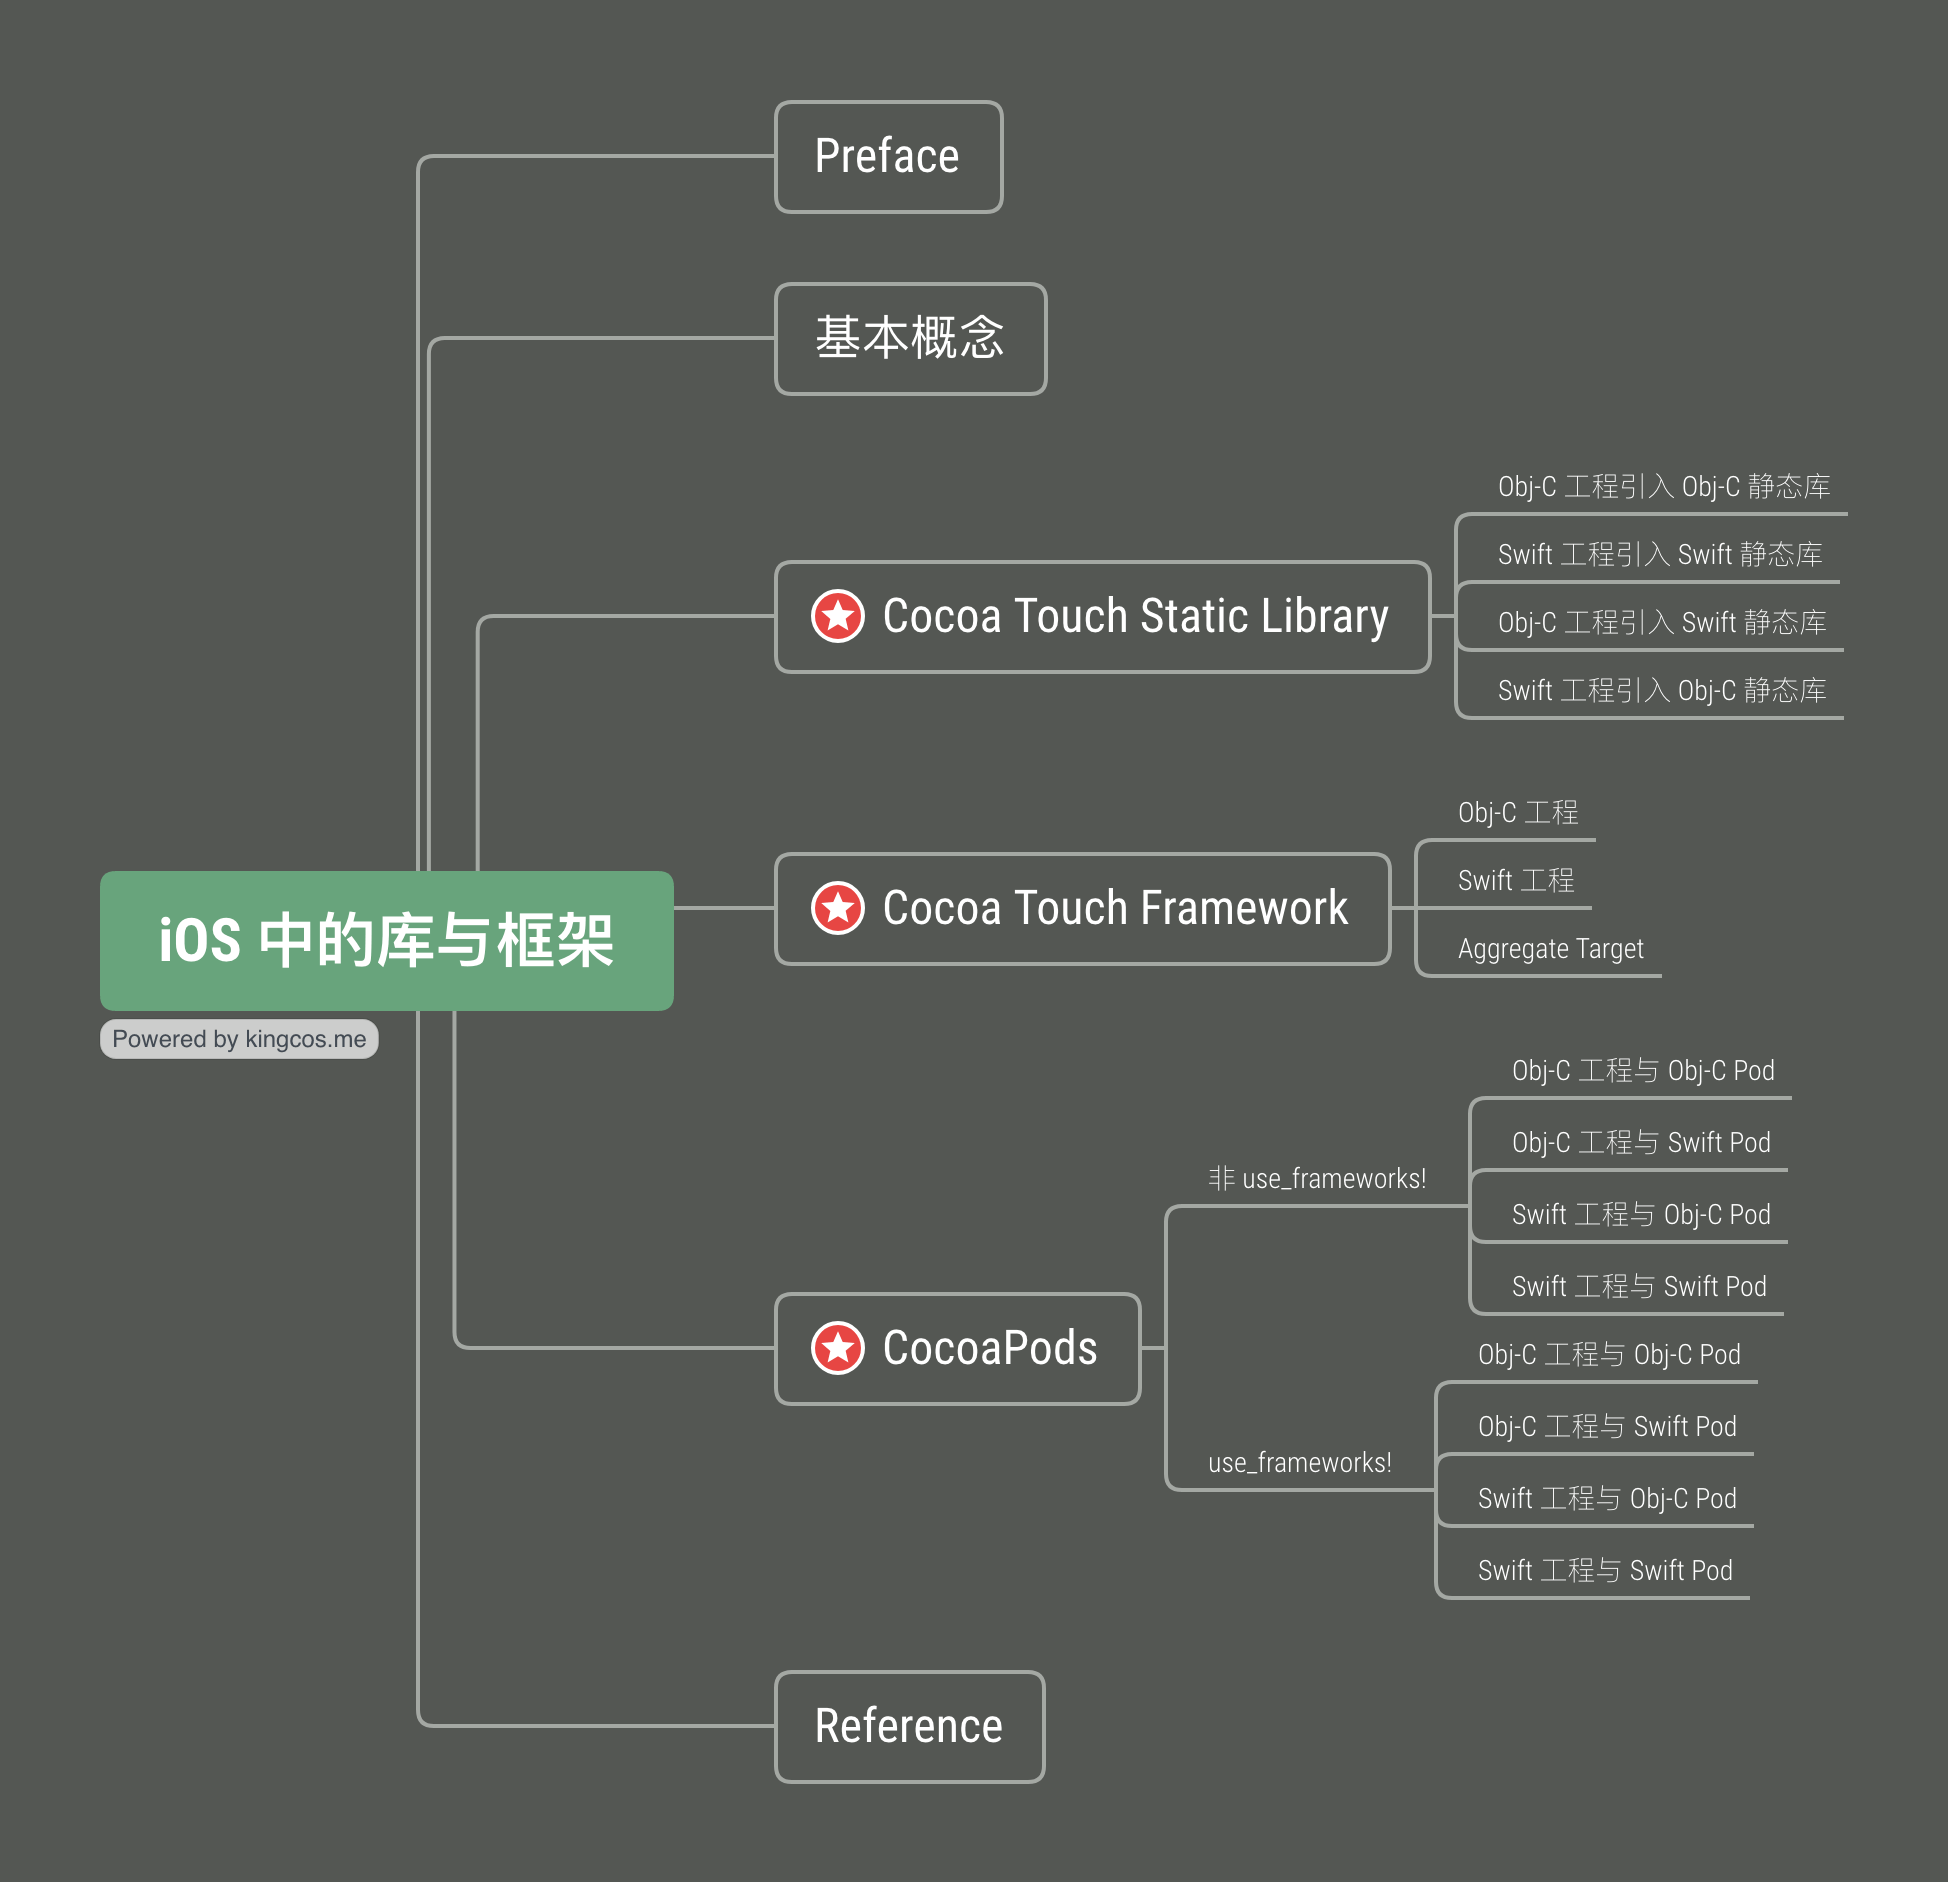
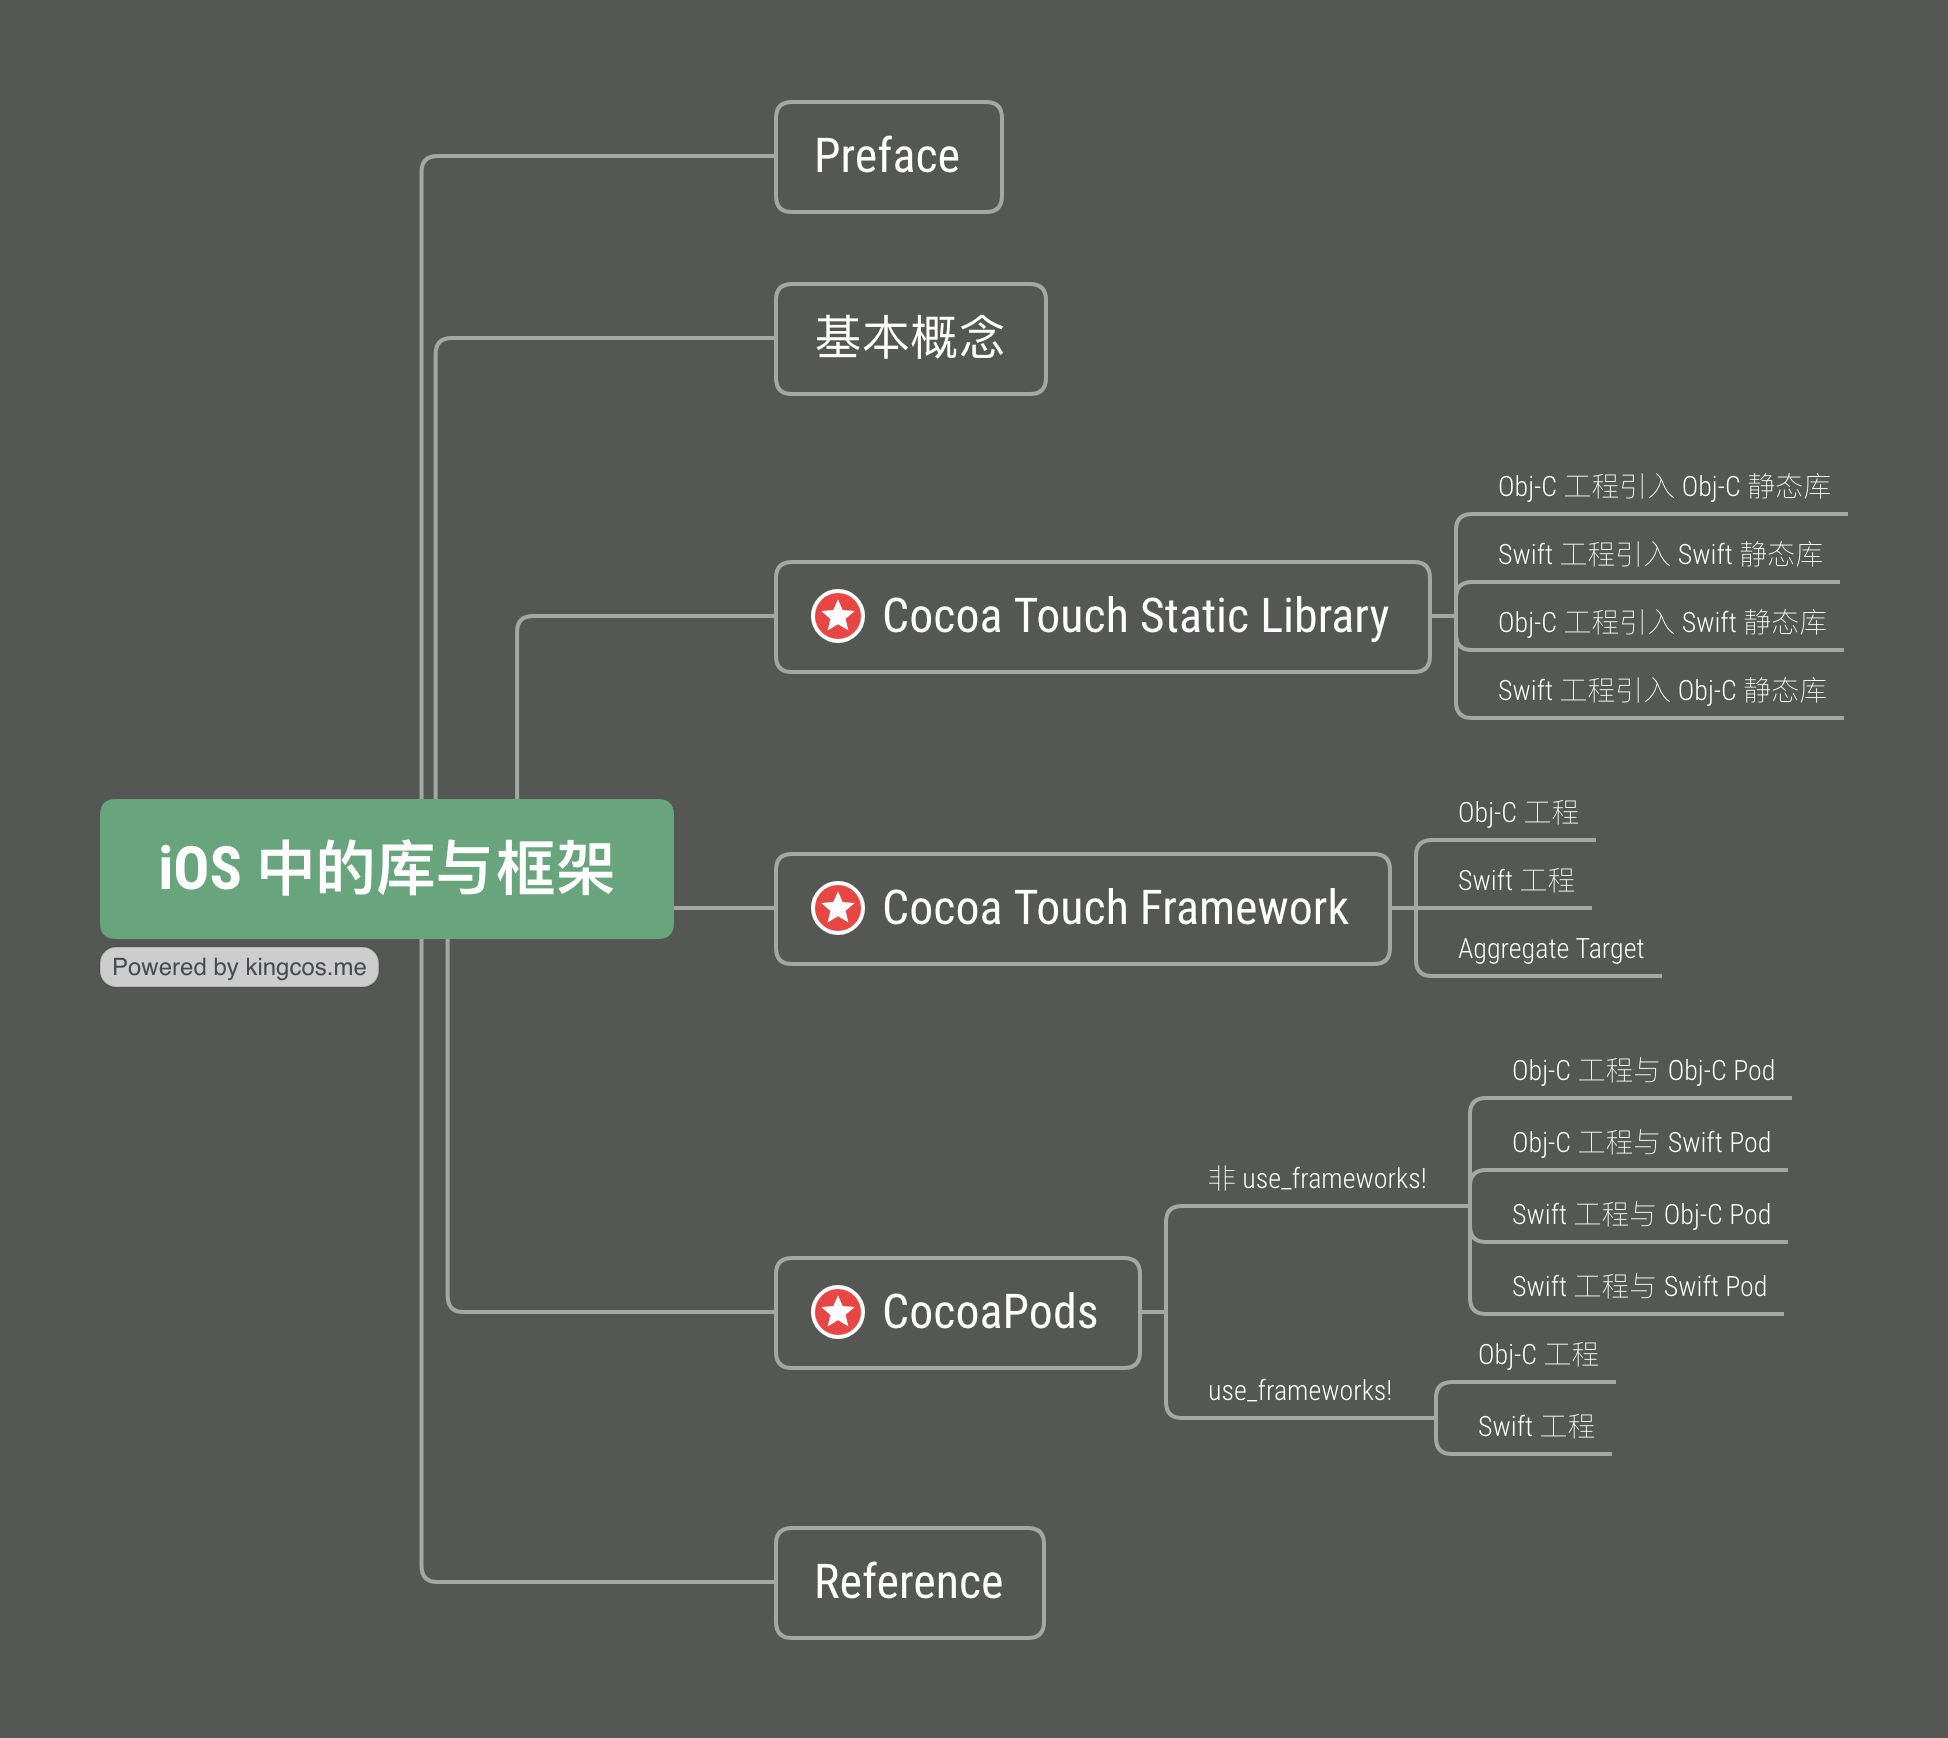
Build

diff --git a/posts/2019/libraries_in_ios/index.html b/posts/2019/libraries_in_ios/index.html
@@ -721,12 +721,12 @@ trap 'on_error $LINENO' ERR
 if [ -z ${UNLOCALIZED_RESOURCES_FOLDER_PATH+x} ]; then
   # If UNLOCALIZED_RESOURCES_FOLDER_PATH is not set, then there's nowhere for us to copy
   # resources to, so exit 0 (signalling the script phase was successful).
-  # 若 UNLOCALIZED_RESOURCES_FOLDER_PATH 未设置，则无法拷贝资源，退出
+  # 若 UNLOCALIZED_RESOURCES_FOLDER_PATH 未设置，则无需拷贝资源并退出
   exit 0
 fi
 
 # TARGET_BUILD_DIR（目标构建目录）：/Users/kingcos/Library/Developer/Xcode/DerivedData/oc-demo-project-pod-fvrppqpxzudpvicewkjnbszgmrll/Build/Products/Debug-iphonesimulator
-# 递归创建 .app 文件夹
+# 递归创建 .app 路径
 mkdir -p &quot;${TARGET_BUILD_DIR}/${UNLOCALIZED_RESOURCES_FOLDER_PATH}&quot;
 
 # RESOURCES_TO_COPY（欲拷贝资源记录临时文件）：oc-demo-project-pod/Pods/resources-to-copy-oc-demo-project-pod.txt
@@ -776,9 +776,9 @@ install_resource()
   fi
 
   # RESOURCE_PATH（资源路径）
-  # /Users/kingcos/Documents/gh/libraries_in_ios-demo/oc-demo-project-pod/Pods/../../oc-pod/oc-pod/Assets/info.json
+  # PATH/TO/libraries_in_ios-demo/oc-demo-project-pod/Pods/../../oc-pod/oc-pod/Assets/info.json
   # /Users/kingcos/Library/Developer/Xcode/DerivedData/oc-demo-project-pod-aaokquikwvguhaglfagfimosuecy/Build/Products/Debug-iphonesimulator/oc-pod/oc-pod.bundle
-  # /Users/kingcos/Documents/gh/libraries_in_ios-demo/oc-demo-project-pod/Pods/../../swift-pod/swift-pod/Assets/Localizable.strings
+  # PATH/TO/libraries_in_ios-demo/oc-demo-project-pod/Pods/../../swift-pod/swift-pod/Assets/Localizable.strings
   # 若资源路径不存在则提示并退出
   if [[ ! -e &quot;$RESOURCE_PATH&quot; ]] ; then
     cat &lt;&lt; EOM
@@ -827,6 +827,7 @@ EOM
       ;;
   esac
 }
+
 # CONFIGURATION：运行的 scheme 配置模式，Debug 或 Release
 # 目前 Debug 和 Release 模式处理一致
 if [[ &quot;$CONFIGURATION&quot; == &quot;Debug&quot; ]]; then
@@ -861,9 +862,11 @@ fi
 # 删除存储资源路径的临时文件
 rm -f &quot;$RESOURCES_TO_COPY&quot;
 
+# WRAPPER_EXTENSION（扩展）：app
 if [[ -n &quot;${WRAPPER_EXTENSION}&quot; ]] &amp;&amp; [ &quot;`xcrun --find actool`&quot; ] &amp;&amp; [ -n &quot;${XCASSET_FILES:-}&quot; ]
 then
   # Find all other xcassets (this unfortunately includes those of path pods and other targets).
+  # 查找其他所有 xcassets
   OTHER_XCASSETS=$(find &quot;$PWD&quot; -iname &quot;*.xcassets&quot; -type d)
   while read line; do
     if [[ $line != &quot;${PODS_ROOT}*&quot; ]]; then
@@ -1025,18 +1028,18 @@ class ViewController: UIViewController {
 
 <h3 id="use-frameworks">use_frameworks!</h3>
 
-<h4 id="obj-c-工程与-obj-c-pod-1">Obj-C 工程与 Obj-C Pod</h4>
+<h4 id="obj-c-工程-1">Obj-C 工程</h4>
 
 <p>将 <code>use_frameworks!</code> 开启时，Pods 工程将以框架方式依赖：</p>
 
 <p><img src="/img/2019/libraries_in_ios/16.png" alt="16" /></p>
 
-<p>对于资源文件，「[CP] Copy Pods Resoureces」中执行了如下脚本：</p>
+<p>在上面我们了解过 Framework，其中聚合了可执行文件以及资源等文件，因此其一般不再需要单独的脚本来处理资源，而是需要「[CP] Embed Pods Frameworks」来针对 Framework 进行操作：</p>
 
 <pre><code class="language-shell">#!/bin/sh
 set -e
 set -u
-set -o pipefail
+set -o pipefail # 一些设置
 
 # 错误处理
 function on_error {
@@ -1044,38 +1047,42 @@ function on_error {
 }
 trap 'on_error $LINENO' ERR
 
-# FRAMEWORKS_FOLDER_PATH（框架路径）：oc-demo-project.app/Frameworks
+# FRAMEWORKS_FOLDER_PATH（框架文件夹路径）：oc-demo-project-pod.app/Frameworks
 if [ -z ${FRAMEWORKS_FOLDER_PATH+x} ]; then
-  # FRAMEWORKS_FOLDER_PATH 未设置，代表无需复制框架，即退出
   # If FRAMEWORKS_FOLDER_PATH is not set, then there's nowhere for us to copy
   # frameworks to, so exit 0 (signalling the script phase was successful).
+  # FRAMEWORKS_FOLDER_PATH 未设置，则无需拷贝资源并退出
   exit 0
 fi
 
-# CONFIGURATION_BUILD_DIR（配置构建目录）：/Users/kingcos/Library/Developer/Xcode/DerivedData/oc-demo-project-fvrppqpxzudpvicewkjnbszgmrll/Build/Products/Debug-iphonesimulator
+# CONFIGURATION_BUILD_DIR（配置构建目录）：/Users/kingcos/Library/Developer/Xcode/DerivedData/oc-demo-project-pod-gmhizsqflcuavpebfzsfyychzzuj/Build/Products/Debug-iphonesimulator
+# 递归创建框架路径
 echo &quot;mkdir -p ${CONFIGURATION_BUILD_DIR}/${FRAMEWORKS_FOLDER_PATH}&quot;
 mkdir -p &quot;${CONFIGURATION_BUILD_DIR}/${FRAMEWORKS_FOLDER_PATH}&quot;
 
+# COCOAPODS_PARALLEL_CODE_SIGN（CocoaPods 并行签名）：false（默认）
 COCOAPODS_PARALLEL_CODE_SIGN=&quot;${COCOAPODS_PARALLEL_CODE_SIGN:-false}&quot;
+
 # DT_TOOLCHAIN_DIR（工具链目录）：/Applications/Xcode.app/Contents/Developer/Toolchains/XcodeDefault.xctoolchain
 # PLATFORM_NAME（目标平台名）：iphonesimulator
+# SWIFT_STDLIB_PATH（Swift 标准库路径）：/Applications/Xcode.app/Contents/Developer/Toolchains/XcodeDefault.xctoolchain/usr/lib/swift/iphonesimulator
 SWIFT_STDLIB_PATH=&quot;${DT_TOOLCHAIN_DIR}/usr/lib/swift/${PLATFORM_NAME}&quot;
 
 # Used as a return value for each invocation of `strip_invalid_archs` function.
+# 作为每次调用 strip_invalid_archs 函数的返回值
 STRIP_BINARY_RETVAL=0
 
+# 防止多个 target 同时拷贝相同的框架依赖
 # This protects against multiple targets copying the same framework dependency at the same time. The solution
 # was originally proposed here: https://lists.samba.org/archive/rsync/2008-February/020158.html
 RSYNC_PROTECT_TMP_FILES=(--filter &quot;P .*.??????&quot;)
 
 # Copies and strips a vendored framework
-# 拷贝并删除 vendored framework
-
-# 安装框架函数
+# 拷贝并删除 vendored 框架
 install_framework()
 {
-  # BUILT_PRODUCTS_DIR（构建产物目录）：/Users/kingcos/Library/Developer/Xcode/DerivedData/oc-demo-project-fvrppqpxzudpvicewkjnbszgmrll/Build/Products/Debug-iphonesimulator
-  # if [ -r FILE ]; 如果文件 FILE 可读（r：read）则真
+  # BUILT_PRODUCTS_DIR（构建产物目录）：/Users/kingcos/Library/Developer/Xcode/DerivedData/oc-demo-project-pod-gmhizsqflcuavpebfzsfyychzzuj/Build/Products/Debug-iphonesimulator
+  # if [ -r FILE ]; 如果文件 FILE 可读（r：read）则为真
   if [ -r &quot;${BUILT_PRODUCTS_DIR}/$1&quot; ]; then
     local source=&quot;${BUILT_PRODUCTS_DIR}/$1&quot;
   elif [ -r &quot;${BUILT_PRODUCTS_DIR}/$(basename &quot;$1&quot;)&quot; ]; then
@@ -1086,9 +1093,10 @@ install_framework()
 
   local destination=&quot;${TARGET_BUILD_DIR}/${FRAMEWORKS_FOLDER_PATH}&quot;
 
-  # if [ -L FILE ]; 如果文件 FILE 是链接（L：Link）文件则真
+  # if [ -L FILE ]; 如果文件 FILE 是链接（L：Link）文件则为真
   if [ -L &quot;${source}&quot; ]; then
     echo &quot;Symlinked...&quot;
+    # 读取链接的真实文件
     source=&quot;$(readlink &quot;${source}&quot;)&quot;
   fi
 
@@ -1097,6 +1105,8 @@ install_framework()
   rsync --delete -av &quot;${RSYNC_PROTECT_TMP_FILES[@]}&quot; --filter &quot;- CVS/&quot; --filter &quot;- .svn/&quot; --filter &quot;- .git/&quot; --filter &quot;- .hg/&quot; --filter &quot;- Headers&quot; --filter &quot;- PrivateHeaders&quot; --filter &quot;- Modules&quot; &quot;${source}&quot; &quot;${destination}&quot;
 
   local basename
+  # basename（基本名）：AFNetworking / oc_pod / swift_pod
+  # binary（二进制路径）
   basename=&quot;$(basename -s .framework &quot;$1&quot;)&quot;
   binary=&quot;${destination}/${basename}.framework/${basename}&quot;
 
@@ -1108,15 +1118,19 @@ install_framework()
     binary=&quot;${dirname}/$(readlink &quot;${binary}&quot;)&quot;
   fi
 
+  # /Users/kingcos/Library/Developer/Xcode/DerivedData/oc-demo-project-pod-gmhizsqflcuavpebfzsfyychzzuj/Build/Products/Debug-iphonesimulator/oc-demo-project-pod.app/Frameworks/AFNetworking.framework/AFNetworking: Mach-O 64-bit dynamically linked shared library x86_64
   # Strip invalid architectures so &quot;fat&quot; simulator / device frameworks work on device
   if [[ &quot;$(file &quot;$binary&quot;)&quot; == *&quot;dynamically linked shared library&quot;* ]]; then
+    # 若为动态链接共享库，则删除无效架构
     strip_invalid_archs &quot;$binary&quot;
   fi
 
   # Resign the code if required by the build settings to avoid unstable apps
+  # 重签名 Build Settings 里设置为必须的代码，以避免造成 app 不稳定
   code_sign_if_enabled &quot;${destination}/$(basename &quot;$1&quot;)&quot;
 
   # Embed linked Swift runtime libraries. No longer necessary as of Xcode 7.
+  # 嵌入 Swift 运行时库，Xcode 7 之后不再需要。
   if [ &quot;${XCODE_VERSION_MAJOR}&quot; -lt 7 ]; then
     local swift_runtime_libs
     swift_runtime_libs=$(xcrun otool -LX &quot;$binary&quot; | grep --color=never @rpath/libswift | sed -E s/@rpath\\/\(.+dylib\).*/\\1/g | uniq -u)
@@ -1129,6 +1143,7 @@ install_framework()
 }
 
 # Copies and strips a vendored dSYM
+# 拷贝并删除 vendored dSYM
 install_dsym() {
   local source=&quot;$1&quot;
   if [ -r &quot;$source&quot; ]; then
@@ -1157,6 +1172,7 @@ install_dsym() {
 }
 
 # Copies the bcsymbolmap files of a vendored framework
+# 复制 vendored 框架的 bcsymbolmap 文件
 install_bcsymbolmap() {
     local bcsymbolmap_path=&quot;$1&quot;
     local destination=&quot;${BUILT_PRODUCTS_DIR}&quot;
@@ -1165,6 +1181,7 @@ install_bcsymbolmap() {
 }
 
 # Signs a framework with the provided identity
+# 使用提供的证明签名框架
 code_sign_if_enabled() {
   if [ -n &quot;${EXPANDED_CODE_SIGN_IDENTITY:-}&quot; -a &quot;${CODE_SIGNING_REQUIRED:-}&quot; != &quot;NO&quot; -a &quot;${CODE_SIGNING_ALLOWED}&quot; != &quot;NO&quot; ]; then
     # Use the current code_sign_identity
@@ -1180,13 +1197,21 @@ code_sign_if_enabled() {
 }
 
 # Strip invalid architectures
+# 删除无效架构函数
 strip_invalid_archs() {
   binary=&quot;$1&quot;
   # Get architectures for current target binary
+  # 获取当前二进制架构，x86_64 模拟器
   binary_archs=&quot;$(lipo -info &quot;$binary&quot; | rev | cut -d ':' -f1 | awk '{$1=$1;print}' | rev)&quot;
+  echo &quot;-------&quot;
+  echo &quot;$binary_archs&quot;
+  echo &quot;-------&quot;
+
   # Intersect them with the architectures we are building for
+  # 与目标架构取交集
   intersected_archs=&quot;$(echo ${ARCHS[@]} ${binary_archs[@]} | tr ' ' '\n' | sort | uniq -d)&quot;
   # If there are no archs supported by this binary then warn the user
+  # 如果交集为空，即没有支持的架构，则警告用户
   if [[ -z &quot;$intersected_archs&quot; ]]; then
     echo &quot;warning: [CP] Vendored binary '$binary' contains architectures ($binary_archs) none of which match the current build architectures ($ARCHS).&quot;
     STRIP_BINARY_RETVAL=0
@@ -1196,6 +1221,7 @@ strip_invalid_archs() {
   for arch in $binary_archs; do
     if ! [[ &quot;${ARCHS}&quot; == *&quot;$arch&quot;* ]]; then
       # Strip non-valid architectures in-place
+      # 删除无效架构
       lipo -remove &quot;$arch&quot; -output &quot;$binary&quot; &quot;$binary&quot;
       stripped=&quot;$stripped $arch&quot;
     fi
@@ -1206,16 +1232,19 @@ strip_invalid_archs() {
   STRIP_BINARY_RETVAL=1
 }
 
+# CONFIGURATION：运行的 scheme 配置模式，Debug 或 Release
+# 目前 Debug 和 Release 模式处理一致
+# /Users/kingcos/Library/Developer/Xcode/DerivedData/oc-demo-project-pod-gmhizsqflcuavpebfzsfyychzzuj/Build/Products/Debug-iphonesimulator/AFNetworking/AFNetworking.framework
 
+# /Users/kingcos/Library/Developer/Xcode/DerivedData/oc-demo-project-pod-gmhizsqflcuavpebfzsfyychzzuj/Build/Products/Debug-iphonesimulator/oc-pod/oc_pod.framework
+# /Users/maiming/Library/Developer/Xcode/DerivedData/oc-demo-project-pod-gmhizsqflcuavpebfzsfyychzzuj/Build/Products/Debug-iphonesimulator/swift-pod/swift_pod.framework
 if [[ &quot;$CONFIGURATION&quot; == &quot;Debug&quot; ]]; then
   install_framework &quot;${BUILT_PRODUCTS_DIR}/AFNetworking/AFNetworking.framework&quot;
-  install_framework &quot;${BUILT_PRODUCTS_DIR}/Alamofire/Alamofire.framework&quot;
   install_framework &quot;${BUILT_PRODUCTS_DIR}/oc-pod/oc_pod.framework&quot;
   install_framework &quot;${BUILT_PRODUCTS_DIR}/swift-pod/swift_pod.framework&quot;
 fi
 if [[ &quot;$CONFIGURATION&quot; == &quot;Release&quot; ]]; then
   install_framework &quot;${BUILT_PRODUCTS_DIR}/AFNetworking/AFNetworking.framework&quot;
-  install_framework &quot;${BUILT_PRODUCTS_DIR}/Alamofire/Alamofire.framework&quot;
   install_framework &quot;${BUILT_PRODUCTS_DIR}/oc-pod/oc_pod.framework&quot;
   install_framework &quot;${BUILT_PRODUCTS_DIR}/swift-pod/swift_pod.framework&quot;
 fi
